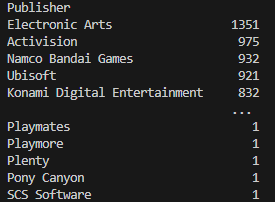
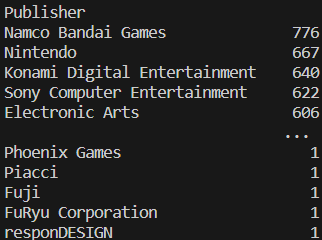
lanjut terus

diff --git a/README.md b/README.md
@@ -100,6 +100,35 @@ Dari gambar diatas untuk platform dengan game terbanyak adalah DS yaitu dengan 2
 
 ---
 
+### Mencari publisher yang merilis game terbanyak
+Pada proses ini saya mencari publisher yang merilis game terbanyak dengan cara melakukan pengelompokan data dari publisher dengan kondisi jika ada nama game yang sama pada kolom Name akan dihitung satu game. Berikut kode yang saya gunakan `df.groupby('Publisher')['Name'].nunique()`.
+
+![publisher](pic/8.1%20Publisher.png)
+
+Hasilnya dapat dilihat bahwa Namco Bandai Games adalah publisher yang paling banyak merilis game, yaitu sebanyak 776 game.
+
+Setelah saya mengetahui bahwa Namco Bandai Games adalah publisher yang paling banyak merilis game, selanjutnya saya mencari game dari Namco yang memiliki penjualan terbanyak. 
+Proses pertama yang saya lakukan adalah mengambil subset dari dataframe yang mana nilai kolom Publisher hanya Namco Bandai Games menggunakan kode `df_NBG = df[df['Publisher']=='Namco Bandai Games']` selanjutnya saya pengelompokan kolom Name dari dataset `df_NBG` dan menjumlahkan total penjualan berdasarkan kolom Global_Sales dengan kode `grouped = df_NBG.groupby('Name')['Global_Sales'].sum().reset_index()`.
+
+![publisher2](pic/8.1.2%20Publisher.png)
+
+Dari gambar diatas 3 game dari Namco Bandai Games yang memiliki penjualan tertinggi adalah Namco Museum, The Witcher 3: Wild Hunt dan Namco Museum: 50th Anniversary.
+
+---
+
+### Mencari tahun dengan perilisan game tertinggi
+Selanjutnya saya akan mencari tahun dengan perilisan game tertinggi, lalu game apa saja yang penjualannya tertinggi di tahun tersebut.
+
+Dikarenakan pada kolom Year terdapat data yang kosong (N/A) maka saya merubah bari yang bertuliskan N/A menjadi NaN dengan `df['Year'] = df['Year'].replace('N/A', np.nan)`, lalu baris yang berisi NaN di hapus dengan `.dropna` dan menetapkan nilainya kembali menjadi 0 dengan tipe data integer dengan kode `.fillna(0).astype(int)`.
+
+![listyear](pic/11.1.%20List%20Year.png)
+![graphyear](pic/11.%20Grafik%20Year.png)
+
+Dari gambar diatas saya mendapatkan informasi bahwa 2009 adalah tahun dimana perilisan game paling banyak. 
+
+Dari informasi itu selanjutnya saya mencari game dan genre yang paling banyak terjual pada tahun 2009.
+
+SOON!!!
 
 
 
